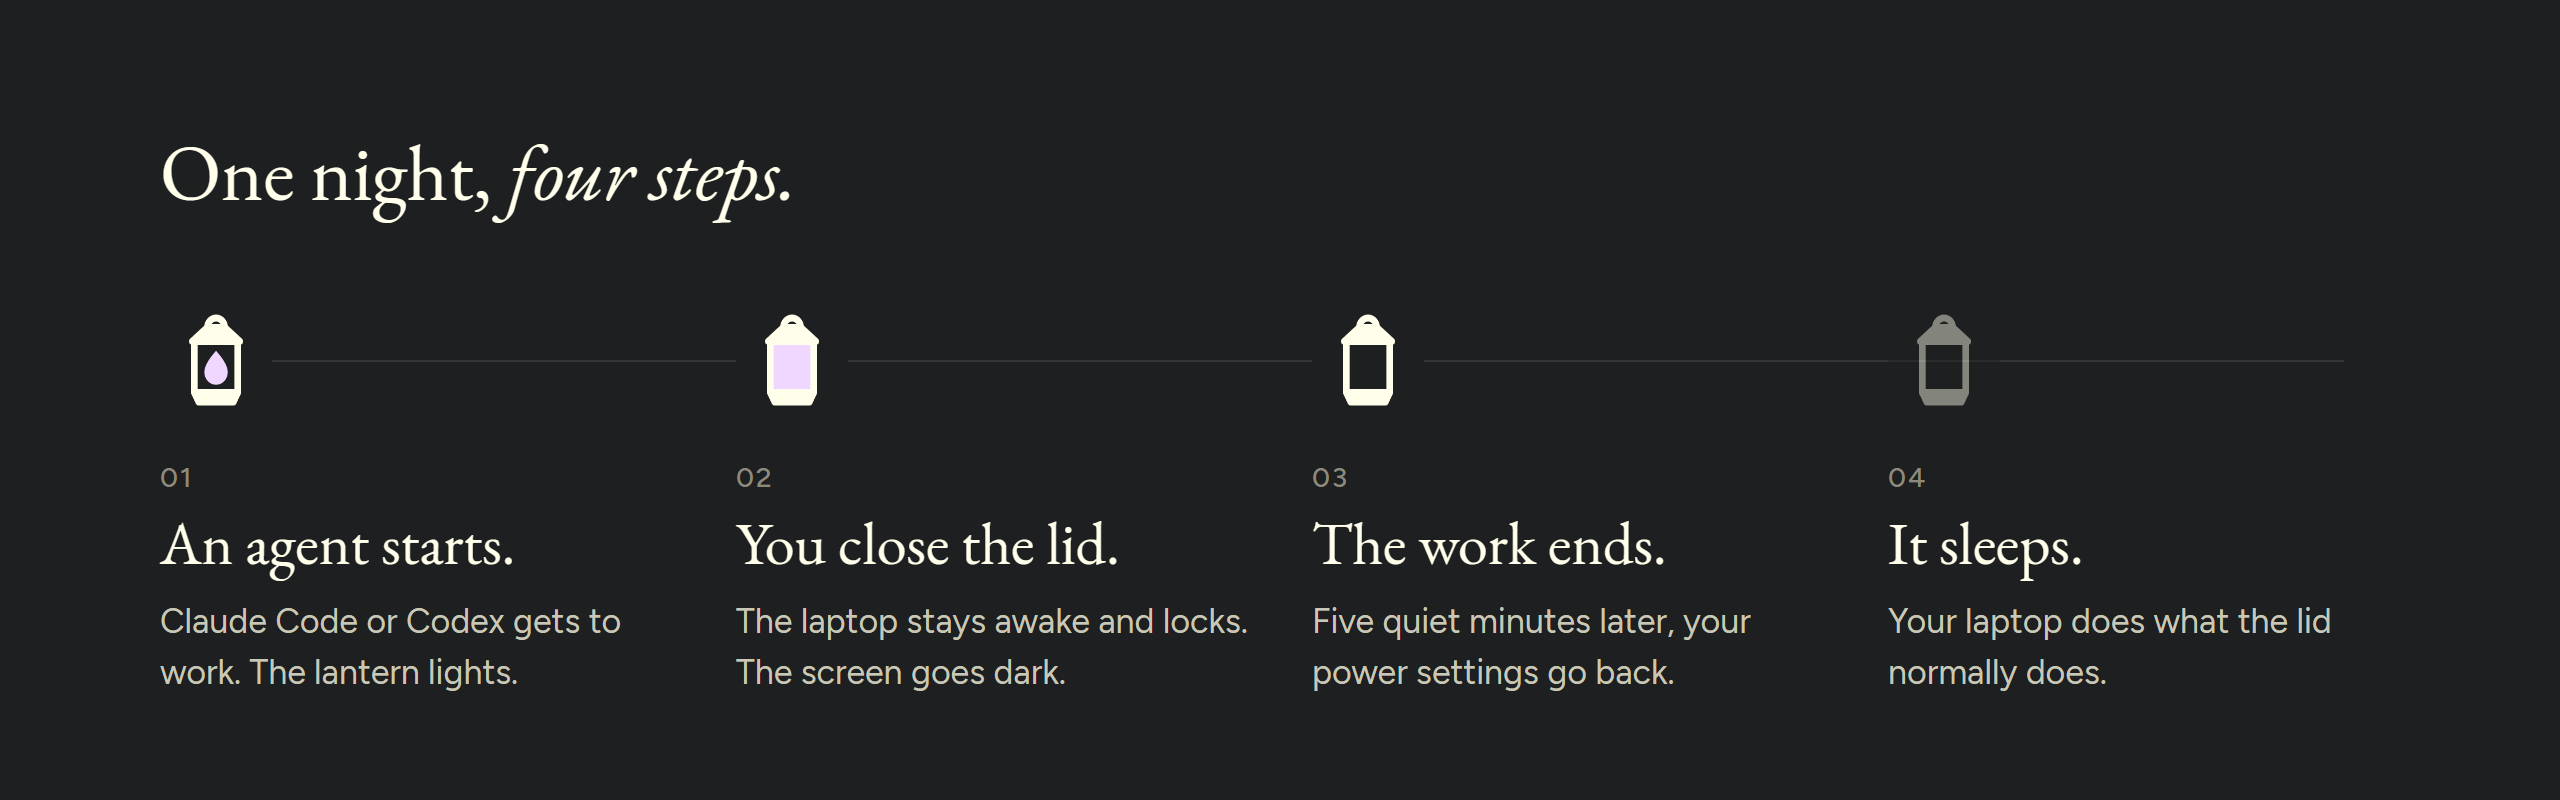
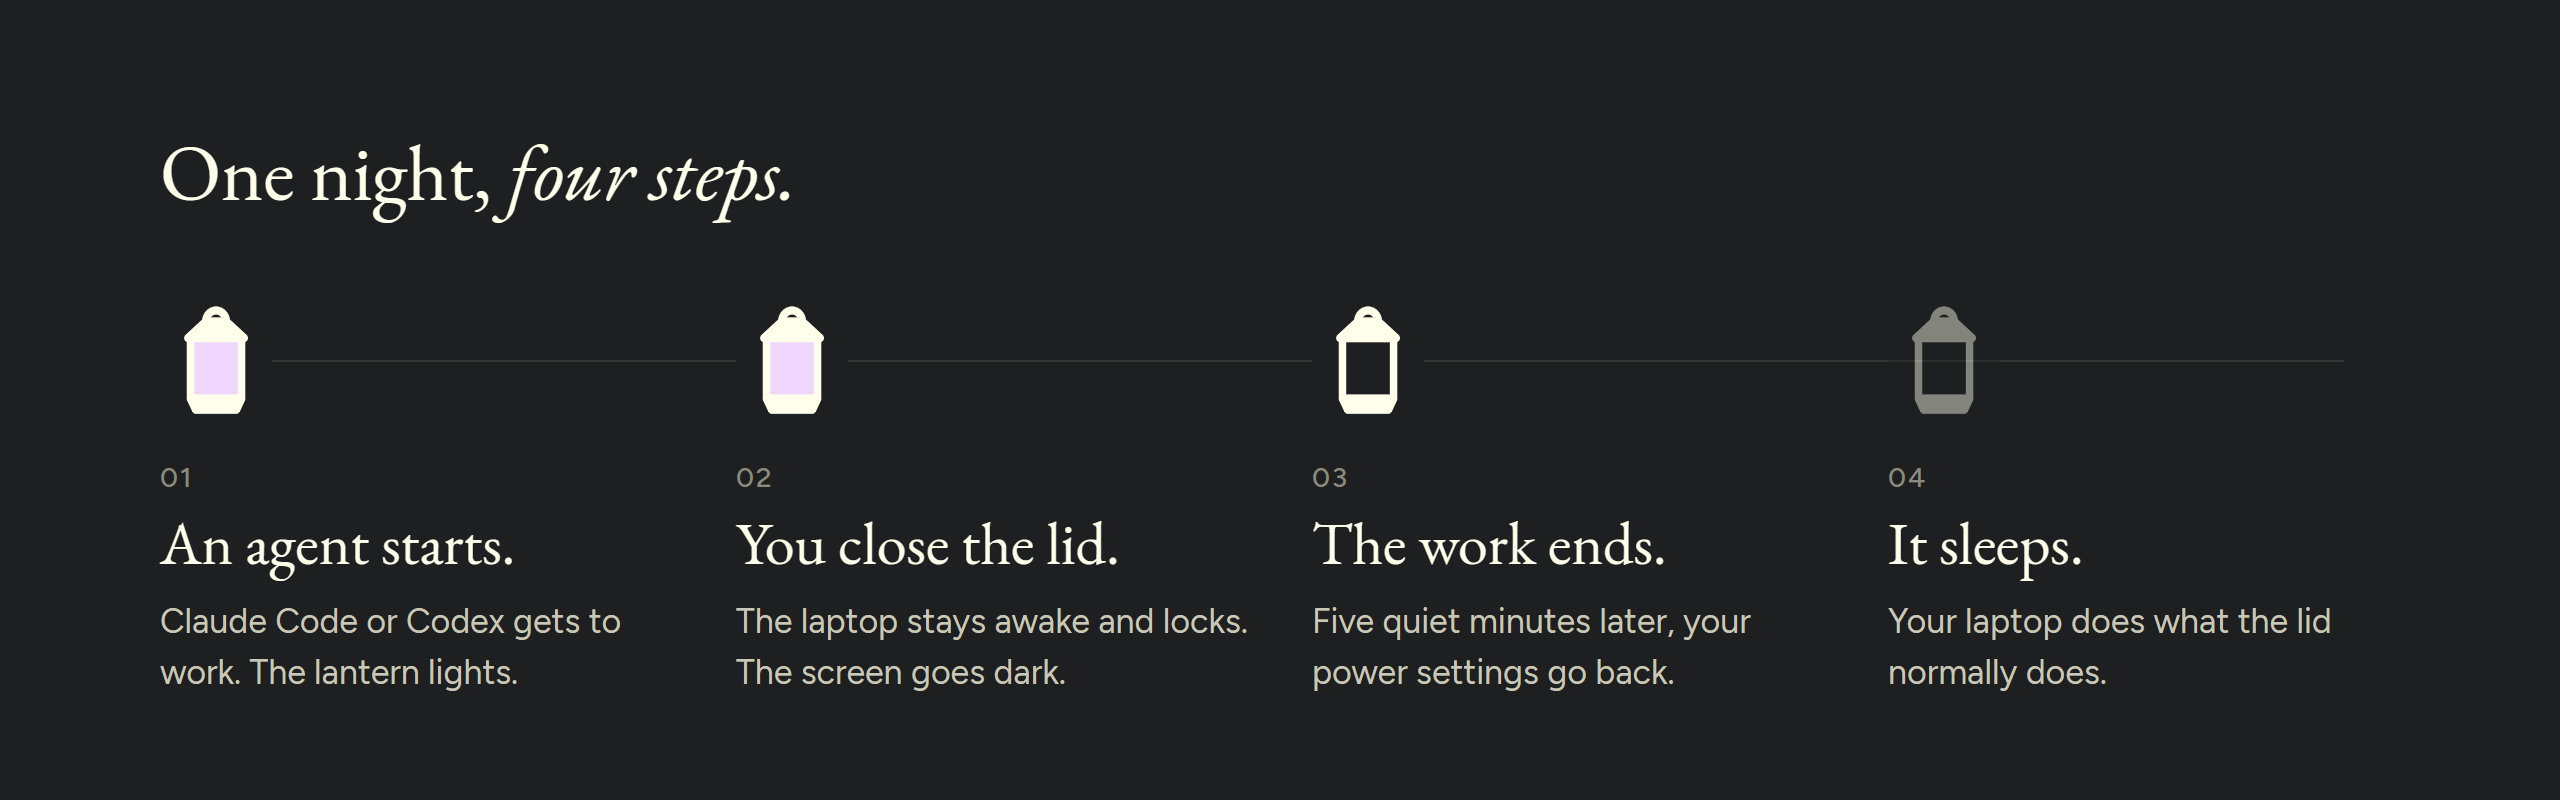
feat: a bigger tray lantern with filled glass while working; two states instead of three
The working state was a small lavender flame, hard to spot in a 32 px tray
slot. Working now fills the glass (or the moon) with lavender, the look the
lid-closed state had; that third state is gone, since nobody sees the tray
with the lid shut. Windows fixes the slot's size, so tray bitmaps scale the
lantern up 18% about the centre to fill the slot's height. The app icon keeps
its flame in empty glass. README images re-rendered; the app icon, banner and
social image are unchanged.

diff --git a/docs/assets/src/night.html b/docs/assets/src/night.html
@@ -27,7 +27,7 @@
       <p>Claude Code or Codex gets to work. The lantern lights.</p>
     </div>
     <div>
-      <img class="mark" src="mark-lidclosed.png" alt="">
+      <img class="mark" src="mark-live.png" alt="">
       <div class="number">02</div>
       <h3 class="serif">You close the lid.</h3>
       <p>The laptop stays awake and locks. The screen goes dark.</p>

diff --git a/tests/Nightcrew.Tests/MarkTests.cs b/tests/Nightcrew.Tests/MarkTests.cs
@@ -46,15 +46,13 @@ public sealed class MarkTests
     [Theory]
     [InlineData(MarkKind.Lantern)]
     [InlineData(MarkKind.MoonAndStar)]
-    public void Each_mark_draws_its_three_states_differently_and_inside_the_grid(MarkKind kind)
+    public void Each_mark_draws_its_two_states_differently_and_inside_the_grid(MarkKind kind)
     {
         Sta.Run(() =>
         {
-            var states = new[] { MarkState.Idle, MarkState.Live, MarkState.LidClosed };
+            var states = new[] { MarkState.Idle, MarkState.Live };
             var pixels = states.Select(state => MarkGeometry.ToBgra(MarkGeometry.Render(kind, state, 32, Theme.Moon))).ToList();
             Assert.NotEqual(pixels[0], pixels[1]);
-            Assert.NotEqual(pixels[1], pixels[2]);
-            Assert.NotEqual(pixels[0], pixels[2]);
 
             foreach (var state in states)
             {
@@ -81,20 +79,89 @@ public sealed class MarkTests
     }
 
     [Fact]
-    public void A_light_taskbar_gets_the_deep_lavender_flame()
+    public void A_light_taskbar_gets_the_deep_lavender()
     {
         Sta.Run(() =>
         {
-            Assert.Equal(Theme.Lavender, CentreOfFlame(Theme.Moon));
-            Assert.Equal(Theme.LavenderDeep, CentreOfFlame(Theme.Night));
+            Assert.Equal(Theme.Lavender, CentreOfGlass(Theme.Moon));
+            Assert.Equal(Theme.LavenderDeep, CentreOfGlass(Theme.Night));
         });
 
-        static Color CentreOfFlame(Color ink)
+        static Color CentreOfGlass(Color ink)
         {
             var bgra = MarkGeometry.ToBgra(MarkGeometry.Render(MarkKind.Lantern, MarkState.Live, 96, ink));
-            var i = (58 * 96 + 48) * 4; // grid (12, 14.6) at 4 px per unit
+            var i = (58 * 96 + 48) * 4; // grid (12, 14.5) at 4 px per unit
             return Color.FromRgb(bgra[i + 2], bgra[i + 1], bgra[i]);
         }
+    }
+
+    /// <summary>The colour at a point of a 96 px render (4 px per grid unit), with its alpha.</summary>
+    private static Color At(byte[] bgra, int x, int y)
+    {
+        var i = (y * 96 + x) * 4;
+        return Color.FromArgb(bgra[i + 3], bgra[i + 2], bgra[i + 1], bgra[i]);
+    }
+
+    [Fact]
+    public void Working_fills_the_lantern_glass_and_idle_leaves_it_empty()
+    {
+        var (working, idle) = Sta.Run(() => (
+            At(MarkGeometry.ToBgra(MarkGeometry.Render(MarkKind.Lantern, MarkState.Live, 96, Theme.Moon)), 36, 70),
+            At(MarkGeometry.ToBgra(MarkGeometry.Render(MarkKind.Lantern, MarkState.Idle, 96, Theme.Moon)), 36, 70)));
+
+        // Grid (9, 17.5): low in the glass, beside where a flame would be.
+        Assert.Equal(Theme.Lavender, Color.FromRgb(working.R, working.G, working.B));
+        Assert.Equal(255, working.A);
+        Assert.Equal(0, idle.A);
+    }
+
+    [Fact]
+    public void Working_fills_the_moon_and_idle_leaves_it_empty()
+    {
+        var (working, idle) = Sta.Run(() => (
+            At(MarkGeometry.ToBgra(MarkGeometry.Render(MarkKind.MoonAndStar, MarkState.Live, 96, Theme.Moon)), 24, 60),
+            At(MarkGeometry.ToBgra(MarkGeometry.Render(MarkKind.MoonAndStar, MarkState.Idle, 96, Theme.Moon)), 24, 60)));
+
+        // Grid (6, 15): inside the crescent.
+        Assert.Equal(Theme.Lavender, Color.FromRgb(working.R, working.G, working.B));
+        Assert.Equal(0, idle.A);
+    }
+
+    [Theory]
+    [InlineData(16)]
+    [InlineData(24)]
+    [InlineData(32)]
+    public void The_tray_lantern_fills_the_height_of_the_icon(int size)
+    {
+        var (top, bottom) = Sta.Run(() =>
+        {
+            var bgra = MarkGeometry.ToBgra(MarkGeometry.Render(MarkKind.Lantern, MarkState.Idle, size, Theme.Moon));
+            var rows = Enumerable.Range(0, size).Where(y => Enumerable.Range(0, size).Any(x => bgra[(y * size + x) * 4 + 3] > 128)).ToList();
+            return (rows.First(), rows.Last());
+        });
+
+        // About a pixel of room at most, above and below: the slot is all Windows gives a tray icon.
+        Assert.InRange(top, 0, 1);
+        Assert.InRange(bottom, size - 2, size - 1);
+    }
+
+    [Fact]
+    public void The_app_icon_keeps_its_flame_in_empty_glass()
+    {
+        var (flame, glass) = Sta.Run(() =>
+        {
+            var bgra = MarkGeometry.ToBgra(MarkGeometry.RenderAppIcon(64));
+            Color Pixel(int x, int y)
+            {
+                var i = (y * 64 + x) * 4;
+                return Color.FromRgb(bgra[i + 2], bgra[i + 1], bgra[i]);
+            }
+            // The mark sits on the tile 9.6 px in, at 1.867 px per grid unit.
+            return (Pixel(32, 37), Pixel(26, 42)); // grid (12, 14.6) in the flame; grid (9, 17.5) in the glass beside it
+        });
+
+        Assert.Equal(Theme.Lavender, flame);
+        Assert.Equal(Theme.Night, glass);
     }
 
     [Fact]

diff --git a/src/Nightcrew/App/Ui/MarkGeometry.cs b/src/Nightcrew/App/Ui/MarkGeometry.cs
@@ -31,8 +31,15 @@ public static class MarkGeometry
     public static double StrokeFor(double pixels) => pixels < 24 ? 2.0 : 1.5;
 
     /// <summary>
-    /// The mark for one state, in grid units, frozen. <paramref name="ink"/> is the stroke colour; on a light
-    /// taskbar it is Night, and the lavender deepens so the flame and the star still show.
+    /// The lantern spans about 20 of the 24 units, the moon and star nearly all of them. Windows fixes the tray
+    /// slot's size, so tray bitmaps scale the lantern up about the centre until it fills the slot's height.
+    /// </summary>
+    internal const double TrayLanternScale = 1.18;
+
+    /// <summary>
+    /// The mark for one state, in grid units, frozen. Working fills the lantern's glass, or the moon, with lavender,
+    /// which reads at a glance in the tray. <paramref name="ink"/> is the stroke colour; on a light taskbar it is
+    /// Night, and the lavender deepens so the fill still shows.
     /// </summary>
     public static Drawing Build(MarkKind kind, MarkState state, double strokeWidth, Color ink)
     {
@@ -41,6 +48,7 @@ public static class MarkGeometry
         pen.Freeze();
         var inkFill = Theme.Brush(ink);
         var lavender = Theme.Brush(ink == Theme.Night ? Theme.LavenderDeep : Theme.Lavender);
+        var working = state == MarkState.Live;
 
         void Add(string path, Brush? fill, Pen? stroke) => group.Children.Add(new GeometryDrawing(fill, stroke, Parse(path)));
 
@@ -48,21 +56,29 @@ public static class MarkGeometry
         {
             Add(LanternHandle, null, pen);
             Add(LanternRoof, inkFill, pen);
-            Add(LanternGlass, state == MarkState.LidClosed ? lavender : null, pen);
+            Add(LanternGlass, working ? lavender : null, pen);
             Add(LanternBase, inkFill, pen);
-            if (state == MarkState.Live) Add(LanternFlame, lavender, null);
         }
         else
         {
-            Add(Moon, state == MarkState.LidClosed ? lavender : null, pen);
-            if (state != MarkState.Idle)
+            Add(Moon, working ? lavender : null, pen);
+            if (working)
             {
-                var starFill = state == MarkState.LidClosed ? inkFill : lavender;
-                var starPen = new Pen(starFill, 1) { LineJoin = PenLineJoin.Round };
+                var starPen = new Pen(inkFill, 1) { LineJoin = PenLineJoin.Round };
                 starPen.Freeze();
-                Add(Star, starFill, starPen);
+                Add(Star, inkFill, starPen);
             }
         }
+        group.Freeze();
+        return group;
+    }
+
+    /// <summary>The app icon's mark: the lantern with a lavender flame in empty glass.</summary>
+    private static Drawing AppIconMark(double strokeWidth)
+    {
+        var group = new DrawingGroup();
+        group.Children.Add(Build(MarkKind.Lantern, MarkState.Idle, strokeWidth, Theme.Moon));
+        group.Children.Add(new GeometryDrawing(Theme.Brush(Theme.Lavender), null, Parse(LanternFlame)));
         group.Freeze();
         return group;
     }
@@ -75,13 +91,23 @@ public static class MarkGeometry
         return image;
     }
 
-    /// <summary>The mark rendered at <paramref name="pixels"/> square, transparent around it.</summary>
-    public static BitmapSource Render(MarkKind kind, MarkState state, int pixels, Color ink) =>
-        RenderDrawing(Build(kind, state, StrokeFor(pixels), ink), pixels, tile: false);
+    /// <summary>The mark rendered at <paramref name="pixels"/> square, transparent around it, as the tray shows it.</summary>
+    public static BitmapSource Render(MarkKind kind, MarkState state, int pixels, Color ink)
+    {
+        var mark = Build(kind, state, StrokeFor(pixels), ink);
+        if (kind == MarkKind.Lantern)
+        {
+            var scaled = new DrawingGroup { Transform = new ScaleTransform(TrayLanternScale, TrayLanternScale, Grid / 2, Grid / 2) };
+            scaled.Children.Add(mark);
+            scaled.Freeze();
+            mark = scaled;
+        }
+        return RenderDrawing(mark, pixels, tile: false);
+    }
 
-    /// <summary>The app icon: the lit lantern on a Night tile with 22% corners.</summary>
+    /// <summary>The app icon: the lantern with its flame on a Night tile with 22% corners.</summary>
     public static BitmapSource RenderAppIcon(int pixels) =>
-        RenderDrawing(Build(MarkKind.Lantern, MarkState.Live, pixels < 32 ? 2.0 : 1.5, Theme.Moon), pixels, tile: true);
+        RenderDrawing(AppIconMark(pixels < 32 ? 2.0 : 1.5), pixels, tile: true);
 
     /// <summary>Straight-alpha BGRA rows, top row first, as an .ico frame wants them.</summary>
     public static byte[] ToBgra(BitmapSource source)

diff --git a/src/Nightcrew/Core/PanelModel.cs b/src/Nightcrew/Core/PanelModel.cs
@@ -2,8 +2,11 @@ namespace Nightcrew.Core;
 
 public enum PanelState { Quiet, Working, Paused }
 
-/// <summary>Which version of the mark to draw: unlit, lit, or lit with the lid closed.</summary>
-public enum MarkState { Idle, Live, LidClosed }
+/// <summary>
+/// Which version of the mark to draw: unlit, or lit while Nightcrew holds the laptop awake. There's no separate
+/// lid-closed look; nobody sees the tray with the lid shut.
+/// </summary>
+public enum MarkState { Idle, Live }
 
 public sealed record PanelFact(string Label, string Value);
 
@@ -39,12 +42,11 @@ public static class PanelModel
 
         if (snapshot.Mode == Mode.Armed)
         {
-            var mark = snapshot.Lid == LidState.Closed ? MarkState.LidClosed : MarkState.Live;
             var first = snapshot.Holders.Count > 0 ? $" ({snapshot.Holders[0].Label})" : "";
             return new PanelView(PanelState.Working, "Working ", "through the night.",
                 "Close the lid. Your laptop keeps working, then does what your lid normally does.",
                 snapshot.Holders, [battery, new PanelFact("When done", WhenDone(snapshot.OwnerLid))],
-                snapshot.Hold, "Pause", warning, mark, Tooltip("working" + first));
+                snapshot.Hold, "Pause", warning, MarkState.Live, Tooltip("working" + first));
         }
 
         if (snapshot.Live)

diff --git a/tests/Nightcrew.Tests/PanelVisualTests.cs b/tests/Nightcrew.Tests/PanelVisualTests.cs
@@ -143,7 +143,7 @@ public sealed class PanelVisualTests : IDisposable
     public void The_readme_marks_are_the_tile_and_the_lantern_in_each_state()
     {
         var paths = Sta.Run(() => AssetRenderer.WriteMarks(_dir));
-        Assert.Equal(["tile.png", "mark-idle.png", "mark-live.png", "mark-lidclosed.png"], paths.Select(Path.GetFileName));
+        Assert.Equal(["tile.png", "mark-idle.png", "mark-live.png"], paths.Select(Path.GetFileName));
         Assert.All(paths, path => Assert.True(new FileInfo(path).Length > 0));
     }
 

diff --git a/src/Nightcrew/App/Ui/AssetRenderer.cs b/src/Nightcrew/App/Ui/AssetRenderer.cs
@@ -63,7 +63,7 @@ public static class AssetRenderer
             written.Add(path);
         }
         Write("tile.png", MarkGeometry.RenderAppIcon(512));
-        foreach (var state in new[] { MarkState.Idle, MarkState.Live, MarkState.LidClosed })
+        foreach (var state in new[] { MarkState.Idle, MarkState.Live })
         {
             Write($"mark-{state.ToString().ToLowerInvariant()}.png", MarkGeometry.Render(MarkKind.Lantern, state, 192, Theme.Moon));
         }

diff --git a/tests/Nightcrew.Tests/PanelModelTests.cs b/tests/Nightcrew.Tests/PanelModelTests.cs
@@ -44,10 +44,10 @@ public sealed class PanelModelTests
     }
 
     [Fact]
-    public void Working_with_the_lid_closed_uses_the_lid_closed_mark()
+    public void Working_with_the_lid_closed_uses_the_same_working_mark()
     {
         var view = PanelModel.From(Snap(Mode.Armed, live: true, lid: LidState.Closed), 20);
-        Assert.Equal(MarkState.LidClosed, view.Mark);
+        Assert.Equal(MarkState.Live, view.Mark);
     }
 
     [Fact]
